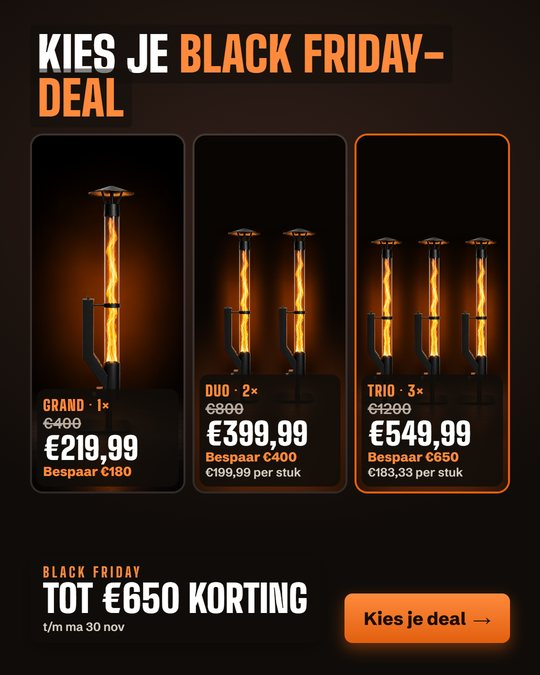
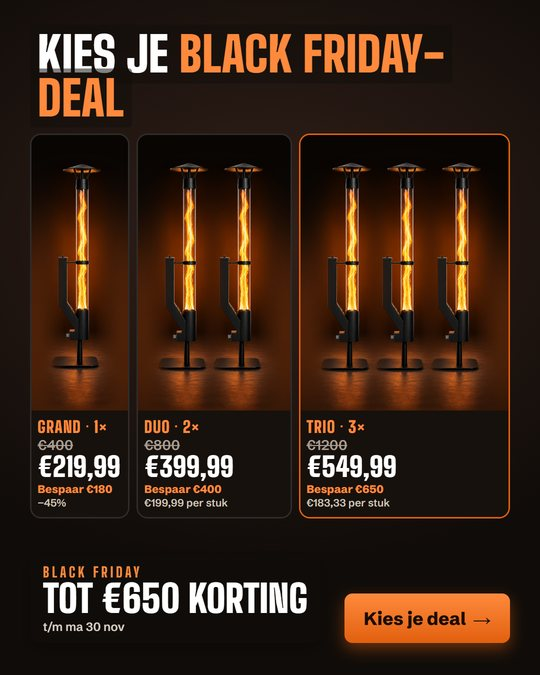
Ads: selectie bovenaan, ad 44 met gelijke haardgrootte + 3 varianten

Changed region(s): [[0.0593, 0.1867, 0.9481, 0.7778], [0.9185, 0.1867, 0.9481, 0.2178]]

diff --git a/ads/index.html b/ads/index.html
@@ -79,10 +79,25 @@ h1{font-family:'Big Shoulders Display';text-transform:uppercase;font-weight:900}
 <header class="gutter"><div class="wrap"><div class="wm"><b>FLAME</b>TOWER</div>
 <h1>Meta-ads Flametower Grand · Black Friday</h1>
 <p>Elk blok is één advertentieset. Klik op <b>Feed</b> of <b>Story</b> voor het formaat, klik op de ad om hem groot te openen. Onder elke ad staat de <b>Uitleg</b>.</p>
-<div class="wat"><span>54 ads</span><span>46 statisch</span><span>8 video</span><span>Black Friday t/m ma 30 nov</span><span>Feed 1080×1350 + Story 1080×1920</span></div>
+<div class="wat"><span>57 ads</span><span>49 statisch</span><span>8 video</span><span>Black Friday t/m ma 30 nov</span><span>Feed 1080×1350 + Story 1080×1920</span></div>
 </div></header>
-<nav class="av gutter"><div class="wrap"><span class="flt"><button class="on" data-ab="alle">Alle 54</button><button data-ab="st">Statisch 46</button><button data-ab="vid">Video 8</button></span><a href="#keuze">Mijn keuze €175</a><a href="#t">De tuinbezitter met een open terras</a><a href="#s">De sfeermaker</a><a href="#c">De cadeaukoper</a><a href="#x">Black Friday, Duo en Trio</a></div></nav>
-<section class="gutter" id="keuze"><div class="wrap"><h2>Mijn keuze voor €175<small class="cnt">8 ads</small></h2><p class="uitleg">Met €175 tot en met maandag 30 november (ruim 3 dagen) zou ik niet alle 48 ads aanzetten. Dan krijgt elke ad te weinig budget en leert Meta niets. Mijn advies: <b>2 advertentiesets van €25 per dag</b> (ABO), elk met 4 ads, van vrijdagavond tot en met maandag 23:59. Dat is ±€175. Doelgroep breed: Nederland en België, 30-65 jaar, geen interesses (Meta vindt de kopers zelf). Optimaliseren op aankopen. Zet na 2 dagen de ads zonder klikken uit, het budget gaat dan vanzelf naar de rest. De andere 40 ads bewaar je voor na Black Friday.</p><h3 style="margin:22px 0 4px;font-size:19px;color:var(--zw)">Set 1 · Kopers nu: aanbod en bezwaren <small style="color:var(--or)">€25 per dag</small></h3><p class="uitleg">Voor wie al twijfelt. De Black Friday-deal in vier vormen: −45%, de drie prijzen naast elkaar, de kortingsvideo en de drie kortingen Grand/Duo/Trio.</p><div class="grid"><article class="ad" id="ad36" data-ab="st"><div class="tg"><button class="on" data-f="f">Feed</button><button data-f="s">Story</button></div><div class="post">
+<nav class="av gutter"><div class="wrap"><span class="flt"><button class="on" data-ab="alle">Alle 57</button><button data-ab="st">Statisch 49</button><button data-ab="vid">Video 8</button></span><a href="#keuze">Jouw selectie</a><a href="#t">De tuinbezitter met een open terras</a><a href="#s">De sfeermaker</a><a href="#c">De cadeaukoper</a><a href="#x">Black Friday, Duo en Trio</a></div></nav>
+<section class="gutter" id="keuze"><div class="wrap"><h2>Jouw selectie<small class="cnt">11 ads</small></h2><p class="uitleg">De ads die je goedkeurde: 7, 36, 53, 15, 6, 28, 48, 27, 30, 41 en 44. Bij 44 zijn de Duo- en Trio-haarden nu even groot als de solo-Grand.</p><div class="grid"><article class="ad" id="ad7" data-ab="st"><div class="tg"><button class="on" data-f="f">Feed</button><button data-f="s">Story</button></div><div class="post">
+ <div class="kp"><img class="av" src="logo-icon.png" alt=""><div><b>Flametower</b><span>Gesponsord</span></div></div>
+ <p class="prim">183 cm echt vuur. Midden in je tuin. 🔥
+
+De Flametower Grand is een zuil van staal en glas met een vlam die door de buis omhoog draait. Overdag een eyecatcher, ’s avonds de warmste plek van de tuin.
+
+Black Friday: −45% (bespaar €180). T/m maandag 30 november.</p><button class="meer">… Meer weergeven</button>
+ <div class="media"><img class="f" src="m/t07-f.jpg" alt="" loading="lazy"><img class="s" src="m/t07-s.jpg" alt="" loading="lazy"></div>
+ <div class="cta"><div><small>FLAME-TOWER.NL</small><b>183 cm echt vuur · −45%</b><span>Flametower Grand</span></div><a>Nu kopen</a></div>
+</div><p class="meta"><b>Ad 7</b> · t07 · Statisch · <a href="https://flame-tower.nl/products/flametower" target="_blank" rel="noopener">landt op de Flametower-pagina</a></p>
+<details class="ul"><summary>Uitleg: waarom deze ad?</summary><dl>
+<dt>Waarom deze ad</dt><dd>Eén groot getal: in een seconde snap je hoe groot hij is. De brede tuinfoto laat zien hoe hij een open terras vult.</dd>
+<dt>Hoe gemaakt</dt><dd>Statische ad, opgemaakt in de Flametower-huisstijl (Big Shoulders + Schibsted Grotesk, oranje #E2600F). Beeld: eigen AI-beeld uit Higgsfield (GPT Image 2), met de echte Flametower Grand als referentie. Feed 4:5 en story 9:16.</dd>
+<dt>Herkomst hook</dt><dd><span class="hk-avatar">AVATAR</span> Merkfundament avatar 1: &quot;ik wil dat mijn open terras een plek wordt waar je ook in het najaar zit&quot;.</dd>
+<dt>Hook in beeld</dt><dd>echt vuur in je tuin</dd>
+</dl></details></article><article class="ad" id="ad36" data-ab="st"><div class="tg"><button class="on" data-f="f">Feed</button><button data-f="s">Story</button></div><div class="post">
  <div class="kp"><img class="av" src="logo-icon.png" alt=""><div><b>Flametower</b><span>Gesponsord</span></div></div>
  <p class="prim">🖤 BLACK FRIDAY
 
@@ -102,25 +117,6 @@ Flametower Grand: −45%. Je bespaart €180.
 <dt>Hoe gemaakt</dt><dd>Statische ad, opgemaakt in de Flametower-huisstijl (Big Shoulders + Schibsted Grotesk, oranje #E2600F). Beeld: eigen AI-beeld uit Higgsfield (GPT Image 2), met de echte Flametower Grand als referentie. Feed 4:5 en story 9:16.</dd>
 <dt>Herkomst hook</dt><dd><span class="hk-aanbod">AANBOD</span> Black Friday-aanbod. VENTOR: de aanbod-ad was een van de twee typen die verkochten.</dd>
 <dt>Hook in beeld</dt><dd>Flametower Grand −45%</dd>
-</dl></details></article><article class="ad" id="ad44" data-ab="st"><div class="tg"><button class="on" data-f="f">Feed</button><button data-f="s">Story</button></div><div class="post">
- <div class="kp"><img class="av" src="logo-icon.png" alt=""><div><b>Flametower</b><span>Gesponsord</span></div></div>
- <p class="prim">🖤 BLACK FRIDAY: kies je deal
-
-🔥 Grand: van €400 voor €219,99
-🔥🔥 Duo: van €800 voor €399,99
-🔥🔥🔥 Trio: van €1200 voor €549,99
-
-Hoe meer haarden, hoe meer korting.
-
-⏰ Alleen t/m maandag 30 november.</p><button class="meer">… Meer weergeven</button>
- <div class="media"><img class="f" src="m/p04-f.jpg" alt="" loading="lazy"><img class="s" src="m/p04-s.jpg" alt="" loading="lazy"></div>
- <div class="cta"><div><small>FLAME-TOWER.NL</small><b>Grand, Duo of Trio</b><span>Tot €650 korting · t/m ma 30 nov</span></div><a>Nu kopen</a></div>
-</div><p class="meta"><b>Ad 44</b> · p04 · Statisch · <a href="https://flame-tower.nl/products/flametower" target="_blank" rel="noopener">landt op de Flametower-pagina</a></p>
-<details class="ul"><summary>Uitleg: waarom deze ad?</summary><dl>
-<dt>Waarom deze ad</dt><dd>Alle drie de prijzen naast elkaar, zodat iemand zelf kiest. Het Trio staat gemarkeerd als beste deal.</dd>
-<dt>Hoe gemaakt</dt><dd>Statische ad, opgemaakt in de Flametower-huisstijl (Big Shoulders + Schibsted Grotesk, oranje #E2600F). Beeld: eigen AI-beeld uit Higgsfield (GPT Image 2), met de echte Flametower Grand als referentie. Feed 4:5 en story 9:16.</dd>
-<dt>Herkomst hook</dt><dd><span class="hk-aanbod">AANBOD</span> Flamesa (Meta Ad Library): &quot;Welke past bij jou?&quot; (99+ dagen), hier als keuze tussen de drie Black Friday-deals.</dd>
-<dt>Hook in beeld</dt><dd>Kies je Black Friday-deal</dd>
 </dl></details></article><article class="ad" id="ad53" data-ab="vid"><div class="tg"><button class="on" data-f="f">Feed</button><button data-f="s">Story</button></div><div class="post">
  <div class="kp"><img class="av" src="logo-icon.png" alt=""><div><b>Flametower</b><span>Gesponsord</span></div></div>
  <p class="prim">🖤 BLACK FRIDAY: −45% op de Flametower Grand
@@ -140,40 +136,6 @@ Echte vlammen in glas, 360° warmte en een hoed tegen vonken.
 <dt>Hoe gemaakt</dt><dd>Video van 10 s: eigen Higgsfield-video (Kling 3.0, 5 s, 10 credits) vanaf een eigen AI-startbeeld; eigen loop van de productpagina (lpL1.mp4), onderste tekstbalk eraf geknipt. Met eigen tekstlagen en een Black Friday-eindkaart. Geen geluid, dus werkt ook zonder.</dd>
 <dt>Herkomst hook</dt><dd><span class="hk-aanbod">AANBOD</span> Black Friday-aanbod van de productpagina, in drie korte tekstblokken.</dd>
 <dt>Hook in beeld</dt><dd>Black Friday −45% / Grand: bespaar €180 / Duo of Trio: tot €650 korting</dd>
-</dl></details></article><article class="ad" id="ad37" data-ab="st"><div class="tg"><button class="on" data-f="f">Feed</button><button data-f="s">Story</button></div><div class="post">
- <div class="kp"><img class="av" src="logo-icon.png" alt=""><div><b>Flametower</b><span>Gesponsord</span></div></div>
- <p class="prim">🖤 BLACK FRIDAY: kies je korting
-
-🔥 Grand: −45%, bespaar €180
-🔥🔥 Duo (2× Grand): bespaar €400
-🔥🔥🔥 Trio (3× Grand): bespaar €650
-
-Hoe meer haarden, hoe meer korting.
-
-⏰ Alleen t/m maandag 30 november.</p><button class="meer">… Meer weergeven</button>
- <div class="media"><img class="f" src="m/x02-f.jpg" alt="" loading="lazy"><img class="s" src="m/x02-s.jpg" alt="" loading="lazy"></div>
- <div class="cta"><div><small>FLAME-TOWER.NL</small><b>Bespaar €180, €400 of €650</b><span>Flametower Grand · Black Friday</span></div><a>Nu kopen</a></div>
-</div><p class="meta"><b>Ad 37</b> · x02 · Statisch · <a href="https://flame-tower.nl/products/flametower" target="_blank" rel="noopener">landt op de Flametower-pagina</a></p>
-<details class="ul"><summary>Uitleg: waarom deze ad?</summary><dl>
-<dt>Waarom deze ad</dt><dd>De drie Black Friday-kortingen naast elkaar, groot en zonder uitleg nodig. Trio gemarkeerd als grootste besparing.</dd>
-<dt>Hoe gemaakt</dt><dd>Statische ad, opgemaakt in de Flametower-huisstijl (Big Shoulders + Schibsted Grotesk, oranje #E2600F). Beeld: eigen AI-beeld uit Higgsfield (GPT Image 2), met de echte Flametower Grand als referentie. Feed 4:5 en story 9:16.</dd>
-<dt>Herkomst hook</dt><dd><span class="hk-aanbod">AANBOD</span> Grand-, Duo- en Trio-korting van de productpagina. Flamesa (Meta Ad Library) gebruikt &quot;Welke past bij jou?&quot; voor keuze.</dd>
-<dt>Hook in beeld</dt><dd>Black Friday: kies je korting</dd>
-</dl></details></article></div><h3 style="margin:22px 0 4px;font-size:19px;color:var(--zw)">Set 2 · Sfeer en cadeau <small style="color:var(--or)">€25 per dag</small></h3><p class="uitleg">Voor wie nog niet zocht. De draaiende vlam stopt het scrollen, &quot;Heel veel warmte, heel veel sfeer&quot; is onze versie van de sfeer-ad van Flamesa (5 kopieën), &quot;Had je er nu maar één staan&quot; liep bij hen precies in deze Black Friday-weken, en de cadeau-ad pakt de Sinterklaas- en Kerstkopers.</p><div class="grid"><article class="ad" id="ad47" data-ab="vid"><div class="tg"><button class="on" data-f="f">Feed</button><button data-f="s">Story</button></div><div class="post">
- <div class="kp"><img class="av" src="logo-icon.png" alt=""><div><b>Flametower</b><span>Gesponsord</span></div></div>
- <p class="prim">Veel warmte. Veel sfeer. 🔥
-
-Kijk hoe de vlam door het glas draait. Dat is de Flametower Grand: echte vlammen, warmte rondom en een hoed tegen vonken.
-
-Black Friday: −45%, bespaar €180. T/m maandag 30 november.</p><button class="meer">… Meer weergeven</button>
- <div class="media"><video class="f" src="m/v01-f.mp4" poster="m/v01-f.jpg" muted loop playsinline preload="none"></video><video class="s" src="m/v01-s.mp4" poster="m/v01-s.jpg" muted loop playsinline preload="none"></video><span class="vtag">▶ Video</span></div>
- <div class="cta"><div><small>FLAME-TOWER.NL</small><b>Black Friday: −45%</b><span>Flametower Grand</span></div><a>Nu kopen</a></div>
-</div><p class="meta"><b>Ad 47</b> · v01 · Video · <a href="https://flame-tower.nl/products/flametower" target="_blank" rel="noopener">landt op de Flametower-pagina</a></p>
-<details class="ul"><summary>Uitleg: waarom deze ad?</summary><dl>
-<dt>Waarom deze ad</dt><dd>Bewegende vlam op zwart: in Reels en Stories valt een draaiend vuur meteen op.</dd>
-<dt>Hoe gemaakt</dt><dd>Video van 10 s: eigen Higgsfield-video (Kling 3.0, 5 s, 10 credits) vanaf een eigen AI-startbeeld. Met eigen tekstlagen en een Black Friday-eindkaart. Geen geluid, dus werkt ook zonder.</dd>
-<dt>Herkomst hook</dt><dd><span class="hk-concurrent">CONCURRENT</span> Flamesa (Meta Ad Library): de sfeer-ad &quot;Dit voelt niet als een heater&quot; (5 kopieën) + de spiraalvlam van VerandaHeater.</dd>
-<dt>Hook in beeld</dt><dd>Veel warmte. Veel sfeer.</dd>
 </dl></details></article><article class="ad" id="ad15" data-ab="st"><div class="tg"><button class="on" data-f="f">Feed</button><button data-f="s">Story</button></div><div class="post">
  <div class="kp"><img class="av" src="logo-icon.png" alt=""><div><b>Flametower</b><span>Gesponsord</span></div></div>
  <p class="prim">Heel veel warmte. En heel veel sfeer. 🔥
@@ -221,6 +183,151 @@ Black Friday: −45%, bespaar €180. T/m maandag 30 november, op tijd voor de f
 <dt>Hoe gemaakt</dt><dd>Statische ad, opgemaakt in de Flametower-huisstijl (Big Shoulders + Schibsted Grotesk, oranje #E2600F). Beeld: eigen AI-beeld uit Higgsfield (GPT Image 2), met de echte Flametower Grand als referentie. Feed 4:5 en story 9:16.</dd>
 <dt>Herkomst hook</dt><dd><span class="hk-avatar">AVATAR</span> Merkfundament avatar 5: &quot;wat geef je iemand die alles al heeft?&quot;</dd>
 <dt>Hook in beeld</dt><dd>Voor wie alles al heeft.</dd>
+</dl></details></article><article class="ad" id="ad48" data-ab="vid"><div class="tg"><button class="on" data-f="f">Feed</button><button data-f="s">Story</button></div><div class="post">
+ <div class="kp"><img class="av" src="logo-icon.png" alt=""><div><b>Flametower</b><span>Gesponsord</span></div></div>
+ <p class="prim">Waarom zou je naar binnen gaan? 🔥
+
+De lampjes branden, de vlam draait door het glas en je voelt de warmte rondom. De Flametower Grand maakt van je terras de plek waar je blijft zitten.
+
+Black Friday: −45%, t/m maandag 30 november.</p><button class="meer">… Meer weergeven</button>
+ <div class="media"><video class="f" src="m/v02-f.mp4" poster="m/v02-f.jpg" muted loop playsinline preload="none"></video><video class="s" src="m/v02-s.mp4" poster="m/v02-s.jpg" muted loop playsinline preload="none"></video><span class="vtag">▶ Video</span></div>
+ <div class="cta"><div><small>FLAME-TOWER.NL</small><b>Blijf buiten zitten · −45%</b><span>Flametower Grand</span></div><a>Nu kopen</a></div>
+</div><p class="meta"><b>Ad 48</b> · v02 · Video · <a href="https://flame-tower.nl/products/flametower" target="_blank" rel="noopener">landt op de Flametower-pagina</a></p>
+<details class="ul"><summary>Uitleg: waarom deze ad?</summary><dl>
+<dt>Waarom deze ad</dt><dd>Sfeervolle lounge met bewegend vuur en lichtjes. De hook is een vraag die je automatisch beantwoordt.</dd>
+<dt>Hoe gemaakt</dt><dd>Video van 10 s: eigen Higgsfield-video (Kling 3.0, 5 s, 10 credits) vanaf een eigen AI-startbeeld. Met eigen tekstlagen en een Black Friday-eindkaart. Geen geluid, dus werkt ook zonder.</dd>
+<dt>Herkomst hook</dt><dd><span class="hk-concurrent">CONCURRENT</span> Flamesa (Meta Ad Library): &quot;Waarom zou je naar binnen gaan? Buiten is het vijf graden.&quot; (47 dagen).</dd>
+<dt>Hook in beeld</dt><dd>Waarom zou je naar binnen gaan?</dd>
+</dl></details></article><article class="ad" id="ad27" data-ab="st"><div class="tg"><button class="on" data-f="f">Feed</button><button data-f="s">Story</button></div><div class="post">
+ <div class="kp"><img class="av" src="logo-icon.png" alt=""><div><b>Flametower</b><span>Gesponsord</span></div></div>
+ <p class="prim">🖤 BLACK FRIDAY
+
+Sfeer voor −45%. De Flametower Grand: echte vlammen in glas, 360° warmte en een hoed tegen vonken.
+
+Je bespaart €180. Alleen t/m maandag 30 november.</p><button class="meer">… Meer weergeven</button>
+ <div class="media"><img class="f" src="m/s13-f.jpg" alt="" loading="lazy"><img class="s" src="m/s13-s.jpg" alt="" loading="lazy"></div>
+ <div class="cta"><div><small>FLAME-TOWER.NL</small><b>Black Friday: −45%</b><span>Flametower Grand · t/m ma 30 nov</span></div><a>Nu kopen</a></div>
+</div><p class="meta"><b>Ad 27</b> · s13 · Statisch · <a href="https://flame-tower.nl/products/flametower" target="_blank" rel="noopener">landt op de Flametower-pagina</a></p>
+<details class="ul"><summary>Uitleg: waarom deze ad?</summary><dl>
+<dt>Waarom deze ad</dt><dd>Lichte Black Friday-variant met sfeerbeeld voor de sfeermaker, zodat niet alle actie-ads zwart zijn.</dd>
+<dt>Hoe gemaakt</dt><dd>Statische ad, opgemaakt in de Flametower-huisstijl (Big Shoulders + Schibsted Grotesk, oranje #E2600F). Beeld: eigen AI-beeld uit Higgsfield (GPT Image 2), met de echte Flametower Grand als referentie. Feed 4:5 en story 9:16.</dd>
+<dt>Herkomst hook</dt><dd><span class="hk-aanbod">AANBOD</span> Black Friday-aanbod van de site. Flamesa (Meta Ad Library) gebruikte in BF 2025 vooral korting + urgentie.</dd>
+<dt>Hook in beeld</dt><dd>Sfeer voor −45%</dd>
+</dl></details></article><article class="ad" id="ad30" data-ab="st"><div class="tg"><button class="on" data-f="f">Feed</button><button data-f="s">Story</button></div><div class="post">
+ <div class="kp"><img class="av" src="logo-icon.png" alt=""><div><b>Flametower</b><span>Gesponsord</span></div></div>
+ <p class="prim">Cadeaulijst:
+
+☑ iets wat ze nog niet hebben
+☑ iets wat ze elke avond gebruiken
+☑ iets voor samen
+
+👉 De Flametower Grand. 🔥
+
+Black Friday: −45%, t/m maandag 30 november. Bezorgd in 1-3 werkdagen.</p><button class="meer">… Meer weergeven</button>
+ <div class="media"><img class="f" src="m/c03-f.jpg" alt="" loading="lazy"><img class="s" src="m/c03-s.jpg" alt="" loading="lazy"></div>
+ <div class="cta"><div><small>FLAME-TOWER.NL</small><b>Het cadeau dat alles afvinkt</b><span>Flametower Grand · −45%</span></div><a>Nu kopen</a></div>
+</div><p class="meta"><b>Ad 30</b> · c03 · Statisch · <a href="https://flame-tower.nl/products/flametower" target="_blank" rel="noopener">landt op de Flametower-pagina</a></p>
+<details class="ul"><summary>Uitleg: waarom deze ad?</summary><dl>
+<dt>Waarom deze ad</dt><dd>Een lijstje dat vanzelf eindigt bij het product. Speels, en het antwoord staat er groot bij.</dd>
+<dt>Hoe gemaakt</dt><dd>Statische ad, opgemaakt in de Flametower-huisstijl (Big Shoulders + Schibsted Grotesk, oranje #E2600F). Beeld: eigen AI-beeld uit Higgsfield (GPT Image 2), met de echte Flametower Grand als referentie. Feed 4:5 en story 9:16.</dd>
+<dt>Herkomst hook</dt><dd><span class="hk-avatar">AVATAR</span> Merkfundament avatar 5: de drie eisen die cadeaukopers zelf noemen.</dd>
+<dt>Hook in beeld</dt><dd>Cadeaulijst</dd>
+</dl></details></article><article class="ad" id="ad41" data-ab="st"><div class="tg"><button class="on" data-f="f">Feed</button><button data-f="s">Story</button></div><div class="post">
+ <div class="kp"><img class="av" src="logo-icon.png" alt=""><div><b>Flametower</b><span>Gesponsord</span></div></div>
+ <p class="prim">🖤 BLACK FRIDAY
+
+Flametower Grand: van €400 voor €219,99. Je bespaart €180 (−45%).
+
+🔥 Echte vlammen in glas
+🎩 Hoed tegen vonken
+🪵 Brandt op houtpellets
+📦 In 1-3 werkdagen bij je
+
+⏰ Alleen t/m maandag 30 november.</p><button class="meer">… Meer weergeven</button>
+ <div class="media"><img class="f" src="m/p01-f.jpg" alt="" loading="lazy"><img class="s" src="m/p01-s.jpg" alt="" loading="lazy"></div>
+ <div class="cta"><div><small>FLAME-TOWER.NL</small><b>Van €400 voor €219,99</b><span>Flametower Grand · Black Friday</span></div><a>Nu kopen</a></div>
+</div><p class="meta"><b>Ad 41</b> · p01 · Statisch · <a href="https://flame-tower.nl/products/flametower" target="_blank" rel="noopener">landt op de Flametower-pagina</a></p>
+<details class="ul"><summary>Uitleg: waarom deze ad?</summary><dl>
+<dt>Waarom deze ad</dt><dd>De deal in één oogopslag: oude prijs doorgestreept, nieuwe prijs groot. Zo zie je meteen hoeveel je betaalt én bespaart.</dd>
+<dt>Hoe gemaakt</dt><dd>Statische ad, opgemaakt in de Flametower-huisstijl (Big Shoulders + Schibsted Grotesk, oranje #E2600F). Beeld: eigen AI-beeld uit Higgsfield (GPT Image 2), met de echte Flametower Grand als referentie. Feed 4:5 en story 9:16.</dd>
+<dt>Herkomst hook</dt><dd><span class="hk-aanbod">AANBOD</span> Black Friday-prijs van de productpagina. Flamesa (Meta Ad Library) zette in januari de prijs in de kop (&quot;Alle Prime modellen nu €249,95&quot;).</dd>
+<dt>Hook in beeld</dt><dd>Flametower Grand · bespaar €180</dd>
+</dl></details></article><article class="ad" id="ad44" data-ab="st"><div class="tg"><button class="on" data-f="f">Feed</button><button data-f="s">Story</button></div><div class="post">
+ <div class="kp"><img class="av" src="logo-icon.png" alt=""><div><b>Flametower</b><span>Gesponsord</span></div></div>
+ <p class="prim">🖤 BLACK FRIDAY: kies je deal
+
+🔥 Grand: van €400 voor €219,99
+🔥🔥 Duo: van €800 voor €399,99
+🔥🔥🔥 Trio: van €1200 voor €549,99
+
+Hoe meer haarden, hoe meer korting.
+
+⏰ Alleen t/m maandag 30 november.</p><button class="meer">… Meer weergeven</button>
+ <div class="media"><img class="f" src="m/p04-f.jpg" alt="" loading="lazy"><img class="s" src="m/p04-s.jpg" alt="" loading="lazy"></div>
+ <div class="cta"><div><small>FLAME-TOWER.NL</small><b>Grand, Duo of Trio</b><span>Tot €650 korting · t/m ma 30 nov</span></div><a>Nu kopen</a></div>
+</div><p class="meta"><b>Ad 44</b> · p04 · Statisch · <a href="https://flame-tower.nl/products/flametower" target="_blank" rel="noopener">landt op de Flametower-pagina</a></p>
+<details class="ul"><summary>Uitleg: waarom deze ad?</summary><dl>
+<dt>Waarom deze ad</dt><dd>Alle drie de prijzen naast elkaar, zodat iemand zelf kiest. Elke haard even groot als de solo, het Trio gemarkeerd als beste deal.</dd>
+<dt>Hoe gemaakt</dt><dd>Statische ad, opgemaakt in de Flametower-huisstijl (Big Shoulders + Schibsted Grotesk, oranje #E2600F). Beeld: eigen AI-beeld uit Higgsfield (GPT Image 2), met de echte Flametower Grand als referentie. Feed 4:5 en story 9:16.</dd>
+<dt>Herkomst hook</dt><dd><span class="hk-aanbod">AANBOD</span> Flamesa (Meta Ad Library): &quot;Welke past bij jou?&quot; (99+ dagen), hier als keuze tussen de drie Black Friday-deals.</dd>
+<dt>Hook in beeld</dt><dd>Kies je Black Friday-deal</dd>
+</dl></details></article></div><h3 style="margin:30px 0 4px;font-size:19px;color:var(--zw)">Nieuwe varianten op 44 <small style="color:var(--or)">zelfde hook, deal en teksten, ander design</small></h3><p class="uitleg">Licht, als prijslijst met één grote Grand, en met de prijs bovenaan. In alle drie zijn de haarden even groot.</p><div class="grid"><article class="ad" id="ad55" data-ab="st"><div class="tg"><button class="on" data-f="f">Feed</button><button data-f="s">Story</button></div><div class="post">
+ <div class="kp"><img class="av" src="logo-icon.png" alt=""><div><b>Flametower</b><span>Gesponsord</span></div></div>
+ <p class="prim">🖤 BLACK FRIDAY: kies je deal
+
+🔥 Grand: van €400 voor €219,99
+🔥🔥 Duo: van €800 voor €399,99
+🔥🔥🔥 Trio: van €1200 voor €549,99
+
+Hoe meer haarden, hoe meer korting.
+
+⏰ Alleen t/m maandag 30 november.</p><button class="meer">… Meer weergeven</button>
+ <div class="media"><img class="f" src="m/p04b-f.jpg" alt="" loading="lazy"><img class="s" src="m/p04b-s.jpg" alt="" loading="lazy"></div>
+ <div class="cta"><div><small>FLAME-TOWER.NL</small><b>Grand, Duo of Trio</b><span>Tot €650 korting · t/m ma 30 nov</span></div><a>Nu kopen</a></div>
+</div><p class="meta"><b>Ad 55</b> · p04b · Statisch · <a href="https://flame-tower.nl/products/flametower" target="_blank" rel="noopener">landt op de Flametower-pagina</a></p>
+<details class="ul"><summary>Uitleg: waarom deze ad?</summary><dl>
+<dt>Waarom deze ad</dt><dd>Zelfde deal als ad 44, maar licht: valt op tussen de vele donkere Black Friday-ads in de feed.</dd>
+<dt>Hoe gemaakt</dt><dd>Statische ad, opgemaakt in de Flametower-huisstijl (Big Shoulders + Schibsted Grotesk, oranje #E2600F). Beeld: eigen AI-beeld uit Higgsfield (GPT Image 2), met de echte Flametower Grand als referentie. Feed 4:5 en story 9:16.</dd>
+<dt>Herkomst hook</dt><dd><span class="hk-aanbod">AANBOD</span> Flamesa (Meta Ad Library): &quot;Welke past bij jou?&quot; (99+ dagen), hier als keuze tussen de drie Black Friday-deals.</dd>
+<dt>Hook in beeld</dt><dd>Kies je Black Friday-deal</dd>
+</dl></details></article><article class="ad" id="ad56" data-ab="st"><div class="tg"><button class="on" data-f="f">Feed</button><button data-f="s">Story</button></div><div class="post">
+ <div class="kp"><img class="av" src="logo-icon.png" alt=""><div><b>Flametower</b><span>Gesponsord</span></div></div>
+ <p class="prim">🖤 BLACK FRIDAY: kies je deal
+
+🔥 Grand: van €400 voor €219,99
+🔥🔥 Duo: van €800 voor €399,99
+🔥🔥🔥 Trio: van €1200 voor €549,99
+
+Hoe meer haarden, hoe meer korting.
+
+⏰ Alleen t/m maandag 30 november.</p><button class="meer">… Meer weergeven</button>
+ <div class="media"><img class="f" src="m/p04c-f.jpg" alt="" loading="lazy"><img class="s" src="m/p04c-s.jpg" alt="" loading="lazy"></div>
+ <div class="cta"><div><small>FLAME-TOWER.NL</small><b>Grand, Duo of Trio</b><span>Tot €650 korting · t/m ma 30 nov</span></div><a>Nu kopen</a></div>
+</div><p class="meta"><b>Ad 56</b> · p04c · Statisch · <a href="https://flame-tower.nl/products/flametower" target="_blank" rel="noopener">landt op de Flametower-pagina</a></p>
+<details class="ul"><summary>Uitleg: waarom deze ad?</summary><dl>
+<dt>Waarom deze ad</dt><dd>Zelfde deal als ad 44 als prijslijst, met één grote Grand: het product zo groot mogelijk in beeld.</dd>
+<dt>Hoe gemaakt</dt><dd>Statische ad, opgemaakt in de Flametower-huisstijl (Big Shoulders + Schibsted Grotesk, oranje #E2600F). Beeld: eigen AI-beeld uit Higgsfield (GPT Image 2), met de echte Flametower Grand als referentie. Feed 4:5 en story 9:16.</dd>
+<dt>Herkomst hook</dt><dd><span class="hk-aanbod">AANBOD</span> Flamesa (Meta Ad Library): &quot;Welke past bij jou?&quot; (99+ dagen), hier als keuze tussen de drie Black Friday-deals.</dd>
+<dt>Hook in beeld</dt><dd>Kies je Black Friday-deal</dd>
+</dl></details></article><article class="ad" id="ad57" data-ab="st"><div class="tg"><button class="on" data-f="f">Feed</button><button data-f="s">Story</button></div><div class="post">
+ <div class="kp"><img class="av" src="logo-icon.png" alt=""><div><b>Flametower</b><span>Gesponsord</span></div></div>
+ <p class="prim">🖤 BLACK FRIDAY: kies je deal
+
+🔥 Grand: van €400 voor €219,99
+🔥🔥 Duo: van €800 voor €399,99
+🔥🔥🔥 Trio: van €1200 voor €549,99
+
+Hoe meer haarden, hoe meer korting.
+
+⏰ Alleen t/m maandag 30 november.</p><button class="meer">… Meer weergeven</button>
+ <div class="media"><img class="f" src="m/p04d-f.jpg" alt="" loading="lazy"><img class="s" src="m/p04d-s.jpg" alt="" loading="lazy"></div>
+ <div class="cta"><div><small>FLAME-TOWER.NL</small><b>Grand, Duo of Trio</b><span>Tot €650 korting · t/m ma 30 nov</span></div><a>Nu kopen</a></div>
+</div><p class="meta"><b>Ad 57</b> · p04d · Statisch · <a href="https://flame-tower.nl/products/flametower" target="_blank" rel="noopener">landt op de Flametower-pagina</a></p>
+<details class="ul"><summary>Uitleg: waarom deze ad?</summary><dl>
+<dt>Waarom deze ad</dt><dd>Zelfde deal als ad 44, maar de prijs staat bovenaan in een oranje kaart: je ziet eerst de prijs, dan de haarden.</dd>
+<dt>Hoe gemaakt</dt><dd>Statische ad, opgemaakt in de Flametower-huisstijl (Big Shoulders + Schibsted Grotesk, oranje #E2600F). Beeld: eigen AI-beeld uit Higgsfield (GPT Image 2), met de echte Flametower Grand als referentie. Feed 4:5 en story 9:16.</dd>
+<dt>Herkomst hook</dt><dd><span class="hk-aanbod">AANBOD</span> Flamesa (Meta Ad Library): &quot;Welke past bij jou?&quot; (99+ dagen), hier als keuze tussen de drie Black Friday-deals.</dd>
+<dt>Hook in beeld</dt><dd>Kies je Black Friday-deal</dd>
 </dl></details></article></div></div></section><section class="gutter" id="t"><div class="wrap"><h2>1 · De tuinbezitter met een open terras<small class="cnt">17 ads</small></h2><p class="uitleg">Heeft een terras of tuin zonder overkapping en wil er in het najaar langer zitten. Bezwaar: &quot;wordt het wel warm genoeg buiten, en is het gedoe?&quot; Belofte: echte vlammen en 360° warmte, zonder gas, stroom of installateur.</p><div class="grid"><article class="ad" id="ad1" data-ab="st"><div class="tg"><button class="on" data-f="f">Feed</button><button data-f="s">Story</button></div><div class="post">
  <div class="kp"><img class="av" src="logo-icon.png" alt=""><div><b>Flametower</b><span>Gesponsord</span></div></div>
  <p class="prim">Buiten is het 5 graden. Jullie zitten er nog. 🔥
@@ -1041,7 +1148,7 @@ Hoe meer haarden, hoe meer korting.
  <div class="cta"><div><small>FLAME-TOWER.NL</small><b>Grand, Duo of Trio</b><span>Tot €650 korting · t/m ma 30 nov</span></div><a>Nu kopen</a></div>
 </div><p class="meta"><b>Ad 44</b> · p04 · Statisch · <a href="https://flame-tower.nl/products/flametower" target="_blank" rel="noopener">landt op de Flametower-pagina</a></p>
 <details class="ul"><summary>Uitleg: waarom deze ad?</summary><dl>
-<dt>Waarom deze ad</dt><dd>Alle drie de prijzen naast elkaar, zodat iemand zelf kiest. Het Trio staat gemarkeerd als beste deal.</dd>
+<dt>Waarom deze ad</dt><dd>Alle drie de prijzen naast elkaar, zodat iemand zelf kiest. Elke haard even groot als de solo, het Trio gemarkeerd als beste deal.</dd>
 <dt>Hoe gemaakt</dt><dd>Statische ad, opgemaakt in de Flametower-huisstijl (Big Shoulders + Schibsted Grotesk, oranje #E2600F). Beeld: eigen AI-beeld uit Higgsfield (GPT Image 2), met de echte Flametower Grand als referentie. Feed 4:5 en story 9:16.</dd>
 <dt>Herkomst hook</dt><dd><span class="hk-aanbod">AANBOD</span> Flamesa (Meta Ad Library): &quot;Welke past bij jou?&quot; (99+ dagen), hier als keuze tussen de drie Black Friday-deals.</dd>
 <dt>Hook in beeld</dt><dd>Kies je Black Friday-deal</dd>
